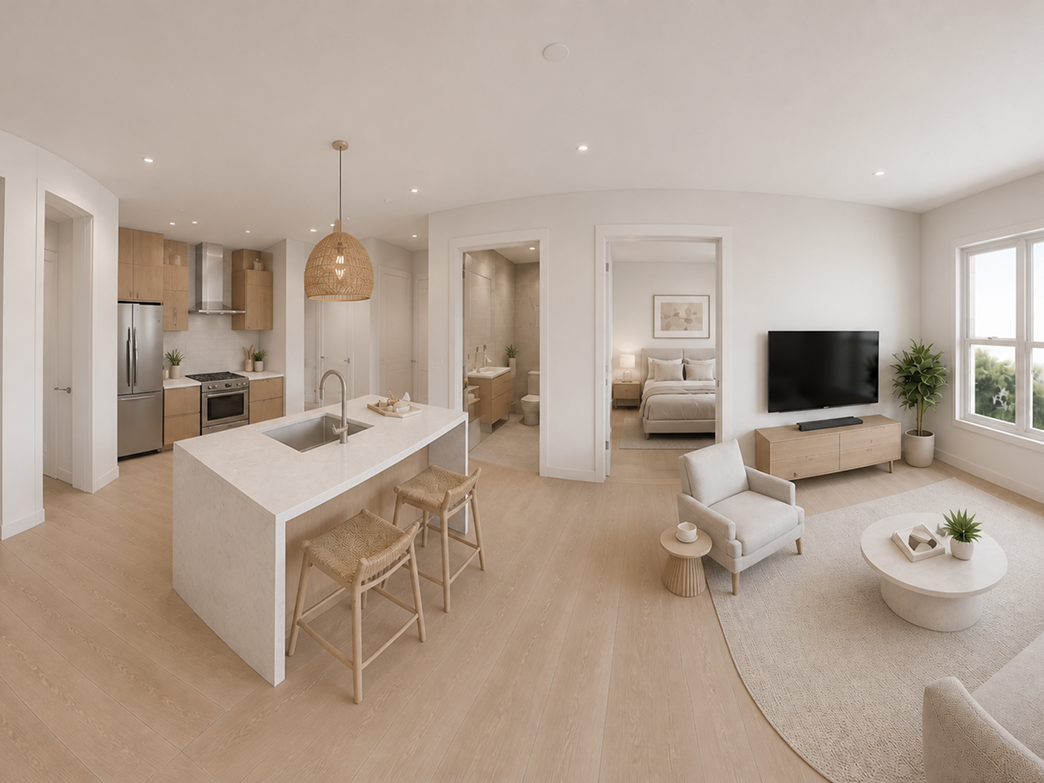
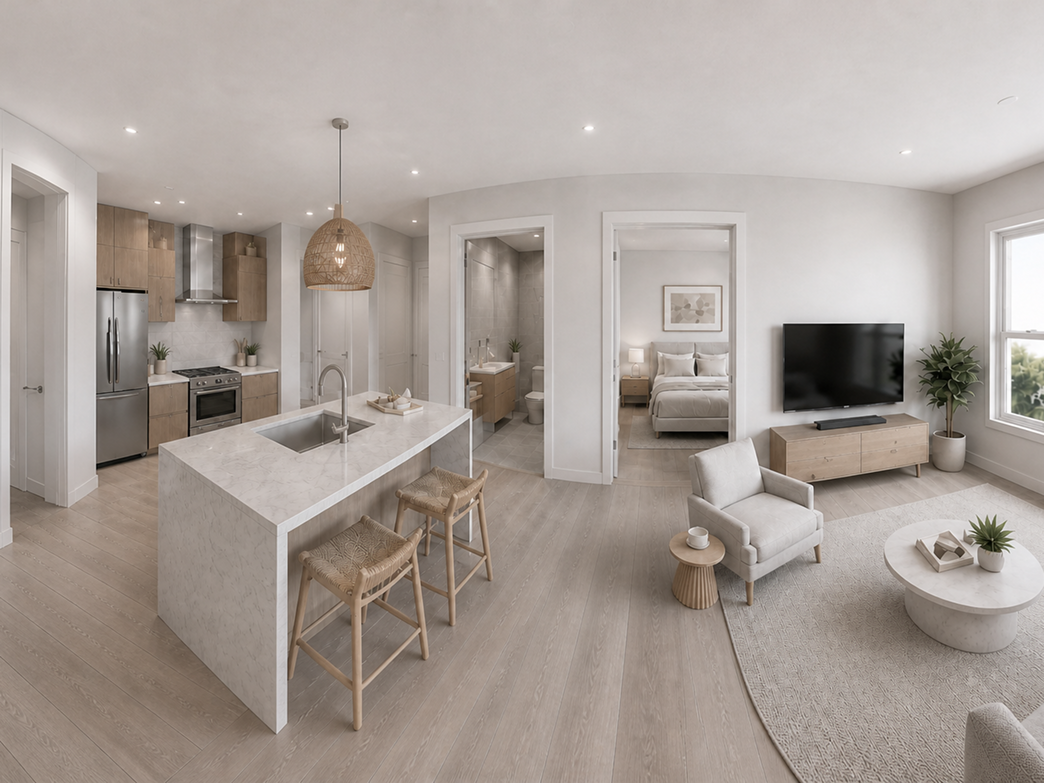
updating

diff --git a/app/components/aduConfigurator/AduConfiguratorClient.tsx b/app/components/aduConfigurator/AduConfiguratorClient.tsx
@@ -3,8 +3,9 @@
 import { ConfiguratorCanvas } from "@/app/components/aduConfigurator/ConfiguratorCanvas";
 import { type PlanId, PLAN_MODEL_URL } from "@/app/components/aduConfigurator/planModelUrls";
 import { type SidingId } from "@/app/components/aduConfigurator/ConfiguratorModel";
+import CtaButton from "@/app/components/ctaButton/ctaButton";
 import Navbar from "@/app/components/navbar/navbar";
-import { Home, Layers, Maximize2, User } from "lucide-react";
+import { ArrowRight, Home, Layers, Maximize2, User } from "lucide-react";
 import Image, { type StaticImageData } from "next/image";
 import Link from "next/link";
 import { usePathname, useRouter } from "next/navigation";
@@ -166,7 +167,7 @@ const FUNDING_OPTS: {
     id: "cash",
     title: "Cash",
     sub: "Funding path",
-    snapshotBuildPath: "Straightforward build path with phased advisor check-ins.",
+    snapshotBuildPath: "Straightforward build path with phased co-ordinator check-ins.",
   },
   {
     id: "financing",
@@ -178,7 +179,7 @@ const FUNDING_OPTS: {
     id: "exploring",
     title: "Exploring Options",
     sub: "Funding path",
-    snapshotBuildPath: "Explore options with advisor support.",
+    snapshotBuildPath: "Explore options with co-ordinator support.",
   },
 ];
 
@@ -189,6 +190,14 @@ const INTERIOR: {
   label: string;
   description: string;
 }[] = [
+
+  {
+    id: "lani",
+    hex: "#C7AF8D",
+    swatchBg: "#C7AF8D",
+    label: "Lani",
+    description: "Light and calm finish for open, airy interiors.",
+  },
   {
     id: "kai",
     hex: "#8B6B52",
@@ -204,16 +213,9 @@ const INTERIOR: {
     description: "A grounded, rich interior tone.",
   },
   {
-    id: "lani",
-    hex: "#C7AF8D",
-    swatchBg: "#C7AF8D",
-    label: "Lani",
-    description: "Light and calm finish for open, airy interiors.",
-  },
-  {
     id: "anu",
-    hex: "#907D6B",
-    swatchBg: "#907D6B",
+    hex: "#8C92AC",
+    swatchBg: "#8C92AC",
     label: "Anu",
     description: "Balanced earthy finish with soft depth.",
   },
@@ -491,7 +493,7 @@ export function AduConfiguratorClient() {
     >
       <Navbar />
 
-      <div className="flex flex-1 flex-col pt-16 lg:flex-row lg:pt-0">
+      <div className="flex   flex-1 flex-col pt-16 lg:flex-row lg:pt-0">
 
       <aside
         className="order-2 flex w-full flex-1 flex-col gap-5 lg:order-2 lg:h-screen lg:w-[min(472px,40vw)] lg:shrink-0 lg:overflow-y-auto lg:border-l lg:border-white/10 lg:pb-12"
@@ -738,18 +740,16 @@ export function AduConfiguratorClient() {
                 label="Customization Summary"
                 value={`${addonCount} site add-ons · ${upgradeCount} upgrades`}
               />
-              <SnapshotRow label="Estimated Starting Range" value="$3,400 – $3,600" />
+              <SnapshotRow label="Estimated Rental Income" value="$3,400 – $3,600" />
             </div>
 
-            <button
-              type="button"
+            <CtaButton
+              buttonName={finishSending ? "Sending…" : "Finish & Book Discovery Call"}
+              icon={<ArrowRight className="size-[18px] shrink-0" aria-hidden strokeWidth={2.5} />}
+              className="mt-6 w-full self-stretch! disabled:pointer-events-none disabled:opacity-60"
               onClick={() => void handleFinish()}
               disabled={finishSending || finishSuccess}
-              className="font-dm-sans mt-6 w-full rounded-[14px] bg-[#ff6b5c] py-4 text-[15px] font-semibold text-white transition-colors hover:bg-[#ef5d4f] enabled:active:bg-[#e55548] disabled:opacity-60"
-              style={{ fontVariationSettings: "'opsz' 14" }}
-            >
-              {finishSending ? "Sending…" : "Finish & Book Discovery Call"}
-            </button>
+            />
             {finishSuccess ? (
               <p className="font-dm-sans mt-4 text-center text-[13px] leading-relaxed text-[#2a6b5f]">
                 Thank you — we received your configuration. We&apos;ll verify the details and get back to you. Taking you
@@ -765,7 +765,7 @@ export function AduConfiguratorClient() {
         </div>
       </aside>
 
-      <main className="relative order-1 h-[52svh] min-h-[300px] w-full shrink-0 bg-[#eaecea] lg:order-1 lg:h-auto lg:min-h-0 lg:flex-1 lg:self-stretch">
+      <main className="relative order-1 h-[52svh] min-h-[300px] w-full shrink-0  lg:order-1 lg:h-auto lg:min-h-0 lg:flex-1 lg:self-stretch">
         {!viewportReady ? <ConfiguratorModelSkeleton loadProgress={loadProgress} /> : null}
         <ConfiguratorCanvas
           modelUrl={PLAN_MODEL_URL[planId]}
@@ -783,7 +783,7 @@ export function AduConfiguratorClient() {
         />
         <div
           aria-hidden
-          className="pointer-events-none absolute inset-x-0 bottom-0 z-1 h-24 bg-linear-to-t from-[#eaecea] via-[#eaecea]/75 to-transparent"
+          className="pointer-events-none absolute inset-x-0 bottom-0 z-1 h-24  to-transparent"
         />
       </main>
       </div>

diff --git a/app/components/aduConfigurator/ConfiguratorCanvas.tsx b/app/components/aduConfigurator/ConfiguratorCanvas.tsx
@@ -2,7 +2,7 @@
 
 import { OrbitControls, useGLTF, useProgress } from "@react-three/drei";
 import { Canvas, useThree } from "@react-three/fiber";
-import { Suspense, useEffect } from "react";
+import { Suspense, useEffect, useRef } from "react";
 import * as THREE from "three";
 import { RoomEnvironment } from "three/examples/jsm/environments/RoomEnvironment.js";
 import { ConfiguratorModel, type RoofStyle, type SidingId } from "./ConfiguratorModel";
@@ -29,6 +29,45 @@ type ConfiguratorCanvasProps = {
   onLoadProgress?: (progress: number) => void;
 };
 
+function GradientBackground() {
+  const uniforms = useRef({
+    uColorTop: { value: new THREE.Color("#f2f0ec") },
+    uColorBottom: { value: new THREE.Color("#ce8d2b ") },
+  });
+
+  const vertexShader = /* glsl */ `
+    varying vec2 vUv;
+    void main() {
+      vUv = uv;
+      gl_Position = vec4(position.xy, 1.0, 1.0);
+    }
+  `;
+
+  const fragmentShader = /* glsl */ `
+    uniform vec3 uColorTop;
+    uniform vec3 uColorBottom;
+    varying vec2 vUv;
+    void main() {
+      // mix from bottom to top based on UV coordinates
+      vec3 blended = mix(uColorBottom, uColorTop, vUv.y);
+      gl_FragColor = vec4(blended, 1.0);
+    }
+  `;
+
+  return (
+    <mesh frustumCulled={false} renderOrder={-100}>
+      <planeGeometry args={[2, 2]} />
+      <shaderMaterial
+        vertexShader={vertexShader}
+        fragmentShader={fragmentShader}
+        uniforms={uniforms.current}
+        depthWrite={false}
+        // depthTest={false} is good here to keep it in the background
+        depthTest={false}
+      />
+    </mesh>
+  );
+}
 function SceneEnvironment() {
   const { scene, gl } = useThree();
   useEffect(() => {
@@ -94,13 +133,13 @@ export function ConfiguratorCanvas({
           toneMappingExposure: 1,
         }}
       >
-        <color attach="background" args={["#eaecea"]} />
+        <GradientBackground />
         <SceneEnvironment />
         <ambientLight intensity={0.22} />
         <directionalLight
           castShadow
           color="#fff8f0"
-          intensity={.25}
+          intensity={0.25}
           position={[14, 28, 10]}
           shadow-mapSize-width={2048}
           shadow-mapSize-height={2048}

diff --git a/app/testing/page.tsx b/app/testing/page.tsx
@@ -1,0 +1,11 @@
+import React from 'react'
+import Threedpage from "../3dpage/page"
+const page = () => {
+  return (
+    <div>
+        <Threedpage />
+    </div>
+  )
+}
+
+export default page
